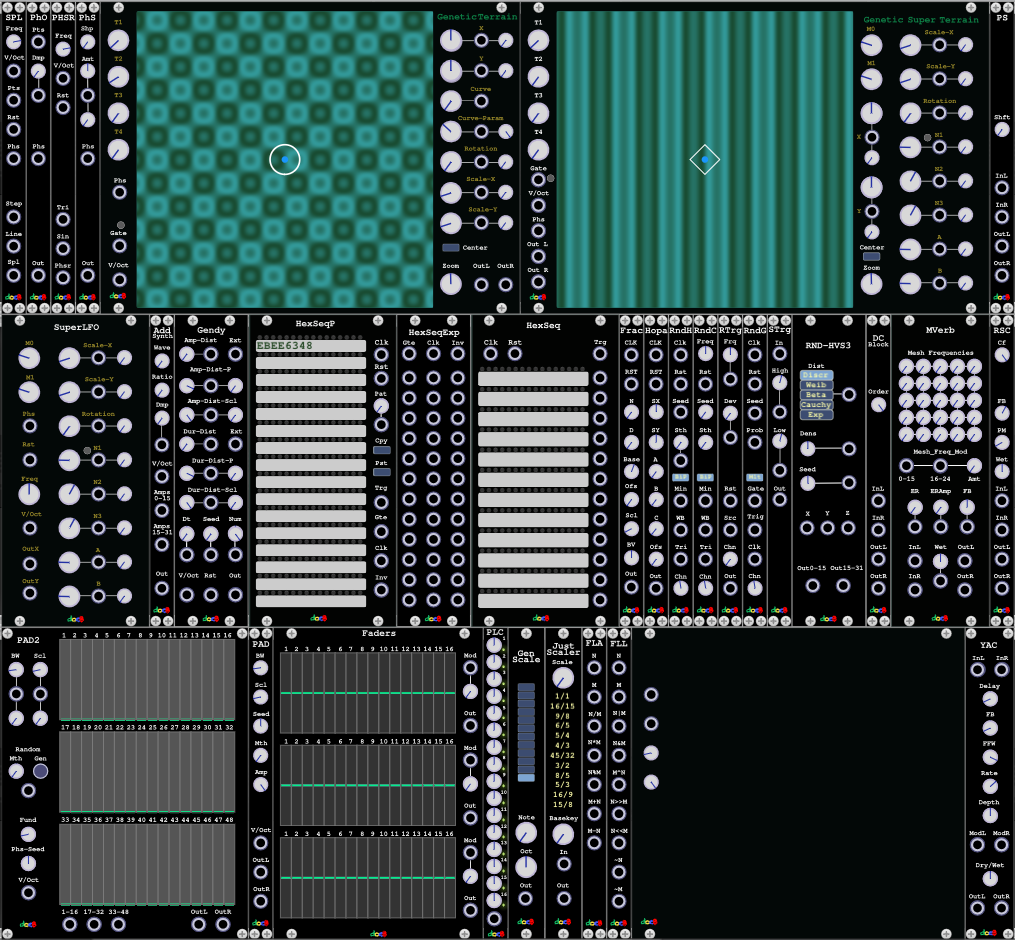
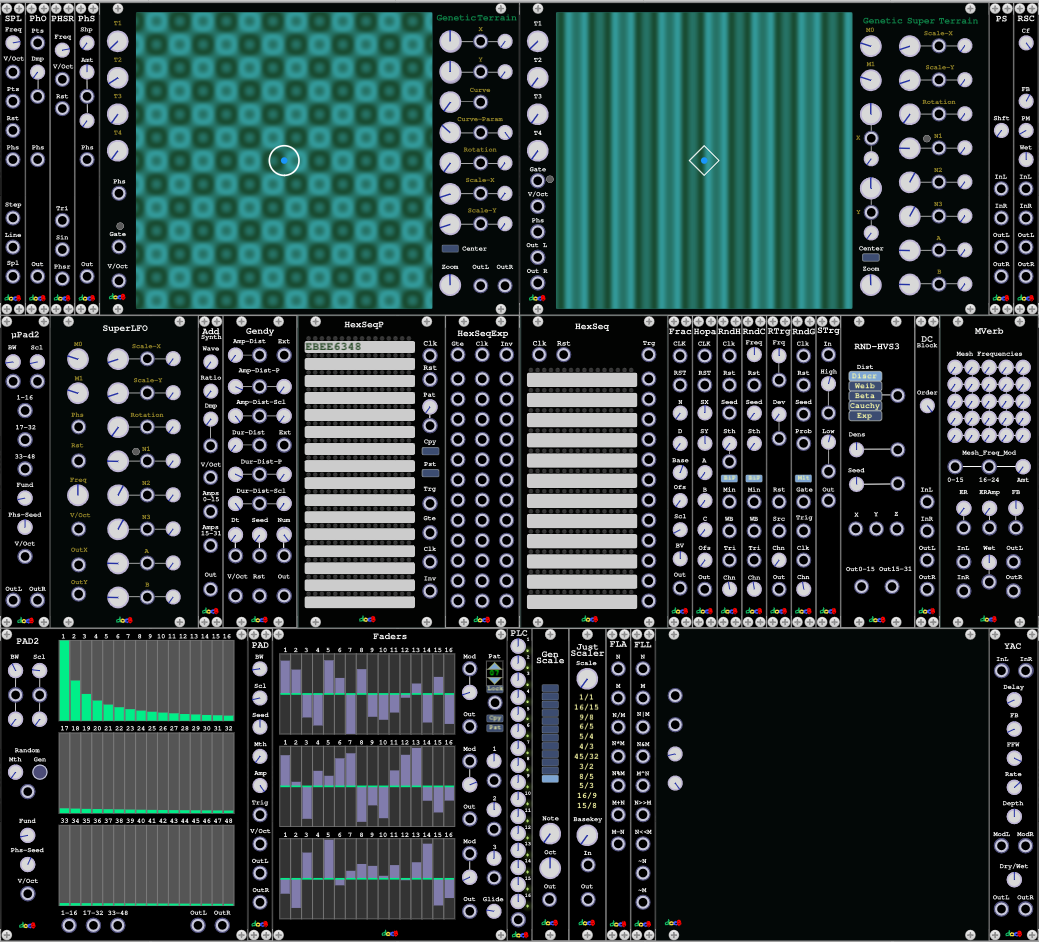
update readme and small fixes

diff --git a/src/Faders.cpp b/src/Faders.cpp
@@ -2,7 +2,7 @@
 #include "rnd.h"
 
 extern Model *modelPad2;
-#define MAX_PATS 16
+#define MAX_PATS 100
 struct SlewLimiter {
   float delta=0;
   float last=0;
@@ -11,10 +11,10 @@ struct SlewLimiter {
   void setParams(float sampleTime,float seconds,float to) {
     if(seconds==0)
       delta=0;
-    else
+    else if(target!=to) {
       delta=(to-last)*sampleTime/seconds;
-    //last=from;
-    target=to;
+      target=to;
+    }
   }
 
   float process() {
@@ -24,7 +24,7 @@ struct SlewLimiter {
     return last=std::min(last+delta,target);
   }
 };
-#define MAX_KNOBS 2
+#define MAX_KNOBS 3
 struct FadersPreset {
   float faderValues[48]={};
   float knobValues[MAX_KNOBS]={};
@@ -134,7 +134,8 @@ struct FadersPreset {
     json_t *knobValueList=json_object_get(data,"knobValues");
     for(int k=0;k<MAX_KNOBS;k++) {
       json_t *jValue=json_array_get(knobValueList,k);
-      knobValues[k]=json_integer_value(jValue);
+      if(jValue)
+        knobValues[k]=json_integer_value(jValue);
     }
     json_t *jKnob1=json_object_get(data,"knob1");
     if(jKnob1) {
@@ -228,16 +229,6 @@ struct Faders : Module {
       getParamQuantity(KNOB_PARAMS+k)->setValue(presets[pat].knobValues[k]);
     }
   }
-
-  void onAdd(const AddEvent &e) override {
-  }
-
-  void onReset(const ResetEvent &e) override {
-    for(int k=0;k<MAX_PATS;k++) {
-      presets[k].reset();
-    }
-  }
-
 
   float getSnapped(float value,int row,int c) {
     int pat=params[PAT_PARAM].getValue();
@@ -404,6 +395,22 @@ struct Faders : Module {
       int id=nr*16+k;
       getParamQuantity(id)->setValue(math::rescale(float(rnd.nextDouble()),0.f,1.f,presets[pat].min[nr],presets[pat].max[nr]));
     }
+  }
+
+  void onRandomize(const RandomizeEvent &e) override {
+    for(int k=0;k<3;k++) {
+      randomizeValues(k);
+      getParamQuantity(KNOB_PARAMS+k)->setValue(math::rescale(float(rnd.nextDouble()),0.f,1.f,-10.f,10.f));
+    }
+  }
+  void onAdd(const AddEvent &e) override {
+  }
+
+  void onReset(const ResetEvent &e) override {
+    for(int k=0;k<MAX_PATS;k++) {
+      presets[k].reset();
+    }
+    setCurrentPattern();
   }
 
 };
@@ -608,11 +615,11 @@ struct FadersWidget : ModuleWidget {
   FadersWidget(Faders *module) {
     setModule(module);
     setPanel(createPanel(asset::plugin(pluginInstance,"res/Faders.svg")));
+    addChild(createWidget<ScrewSilver>(Vec(0, 0)));
+    addChild(createWidget<ScrewSilver>(Vec(box.size.x - 15, 0)));
+    addChild(createWidget<ScrewSilver>(Vec(0, 365)));
+    addChild(createWidget<ScrewSilver>(Vec(box.size.x - 15, 365)));
 
-    addChild(createWidget<ScrewSilver>(Vec(RACK_GRID_WIDTH,0)));
-    addChild(createWidget<ScrewSilver>(Vec(box.size.x-2*RACK_GRID_WIDTH,0)));
-    addChild(createWidget<ScrewSilver>(Vec(RACK_GRID_WIDTH,RACK_GRID_HEIGHT-RACK_GRID_WIDTH)));
-    addChild(createWidget<ScrewSilver>(Vec(box.size.x-2*RACK_GRID_WIDTH,RACK_GRID_HEIGHT-RACK_GRID_WIDTH)));
     for(int i=0;i<3;i++) {
       for(int k=0;k<16;k++) {
         auto faderParam=createParam<Fader>(mm2px(Vec(3+k*4.5,MHEIGHT-(9+38*(2-i))-33)),module,i*16+k);
@@ -654,7 +661,7 @@ struct FadersWidget : ModuleWidget {
       addOutput(createOutput<SmallPort>(mm2px(Vec(x,y)),module,Faders::KNOB_OUTPUTS+k));
       y+=12;
     }
-    addParam(createParam<TrimbotWhite>(mm2px(Vec(x,y)),module,Faders::GLIDE_PARAM));
+    addParam(createParam<TrimbotWhite>(mm2px(Vec(x,113.213f)),module,Faders::GLIDE_PARAM));
 
   }
 

diff --git a/src/Pad2.cpp b/src/Pad2.cpp
@@ -91,9 +91,9 @@ struct Pad2 : Module {
       configParam(PARTIAL_PARAM+k,0,1,0,"Partial "+std::to_string(k+2));
     }
     configParam(BW_PARAM,0.5f,60,10,"Bandwidth");
-    configParam(BW_CV_PARAM,0.0f,3,0,"Bandwidth CV");
+    configParam(BW_CV_PARAM,0.0f,1,0,"Bandwidth CV","%",0,100);
     configParam(SCALE_PARAM,0.5f,4.f,1,"Bandwidth Scale");
-    configParam(SCALE_CV_PARAM,0.0f,2.f,0.f,"Bandwidth Scale CV");
+    configParam(SCALE_CV_PARAM,0.0f,1.f,0.f,"Bandwidth Scale CV","%",0,100);
     configButton(GEN_PARAM,"Generate");
     configParam(PSEED_PARAM,0.f,1.f,0.5,"Phase Seed");
     configParam(FUND_PARAM,4.f,11.f,5.03f,"Frequency"," Hz",2,1);
@@ -158,7 +158,7 @@ struct Pad2 : Module {
     switch(method) {
       case EVEN_MIN:
         for(int k=0;k<48;k++) {
-          if(k%2==0)
+          if(k%2==1)
             getParamQuantity(PARTIAL_PARAM+k)->setValue(rnd.nextMin(k/4));
           else
             getParamQuantity(PARTIAL_PARAM+k)->setValue(0);
@@ -166,7 +166,7 @@ struct Pad2 : Module {
         break;
       case ODD_MIN:
         for(int k=0;k<48;k++) {
-          if(k%2==1)
+          if(k%2==0)
             getParamQuantity(PARTIAL_PARAM+k)->setValue(rnd.nextMin(k/4));
           else
             getParamQuantity(PARTIAL_PARAM+k)->setValue(0);
@@ -179,7 +179,7 @@ struct Pad2 : Module {
         break;
       case EVEN_WB:
         for(int k=0;k<48;k++) {
-          if(k%2==0)
+          if(k%2==1)
             getParamQuantity(PARTIAL_PARAM+k)->setValue(rnd.nextWeibull(k/4.f));
           else
             getParamQuantity(PARTIAL_PARAM+k)->setValue(0);
@@ -187,7 +187,7 @@ struct Pad2 : Module {
         break;
       case ODD_WB:
         for(int k=0;k<48;k++) {
-          if(k%2==1)
+          if(k%2==0)
             getParamQuantity(PARTIAL_PARAM+k)->setValue(rnd.nextWeibull(k/4.f));
           else
             getParamQuantity(PARTIAL_PARAM+k)->setValue(0);
@@ -248,12 +248,12 @@ struct Pad2 : Module {
     }
     float bw=params[BW_PARAM].getValue();
     if(inputs[BW_INPUT].isConnected()) {
-      bw+=inputs[BW_INPUT].getVoltage()*params[BW_CV_PARAM].getValue();
+      bw+=inputs[BW_INPUT].getVoltage()*params[BW_CV_PARAM].getValue()*3;
       bw=clamp(bw,0.5f,60.f);
     }
     float scale=params[SCALE_PARAM].getValue();
     if(inputs[SCALE_INPUT].isConnected()) {
-      scale+=inputs[SCALE_INPUT].getVoltage()*params[SCALE_CV_PARAM].getValue()*0.1f;
+      scale+=inputs[SCALE_INPUT].getVoltage()*params[SCALE_CV_PARAM].getValue()*0.2f;
       scale=clamp(scale,0.5f,4.f);
     }
 

diff --git a/src/Pad.cpp b/src/Pad.cpp
@@ -111,7 +111,7 @@ struct Pad : Module {
   float sr=48000.f;
   float bw=10.f;
   float scl=1.f;
-
+  int counter=-1;
   float fade=0;
 
   void generatePartials() {
@@ -243,7 +243,14 @@ struct Pad : Module {
 
   void process(const ProcessArgs &args) override {
     if(trigger.process(inputs[TRIG_INPUT].getVoltage())) {
+      counter=10;
+    }
+    if(counter>0) {
+      counter--;
+    }
+    if(counter==0) {
       generateThreaded();
+      counter=-1;
     }
     int channels=inputs[VOCT_INPUT].getChannels();
     float mix=0;

diff --git a/README.md b/README.md
@@ -213,14 +213,12 @@ randomly generated (parameter seed) using different methods (parameter Mth).
 New in 2.1.0: 
 - The amp of the first partial can now be controlled with the amp knob - was 1.0 before.
 - Presets will be applied directly without clicking on a knob.
+- External parameter changes (e.g. from µMap) can be applied by sending a trigger signal to the new trig input.  
 - In the menu there can be set a fade time which causes that on every change the sound changes smoothly to the new.
-- There is new method "static" which produces a descending partial sequence. If the seed is 0.5 all partials are part of the sequence.
-  If the seed is zero only odd partials are used and if the seed is one than only even partials are used. 
-  Every seed in between will be interpolated. 
+- There is new method "static" which produces a descending partial sequence. If the seed is 0.5 all partials are part of the sequence (saw like wave).
+  If the seed is zero only odd partials (pulse wave) are used and if the seed is one than only even partials are used. 
+  Every seed in between will be interpolated.
 
-### Gendy
-This is a port of Supercolliders gendy which is based on the work of Peter Hoffmann who has rebuild GENDYN
-from Iannis Xenakis.
 
 ### PAD2
 ![](images/PAD2.png?raw=true)
@@ -244,10 +242,21 @@ Changes to PAD:
   
 Here an example:
 
+Thanks to Paul Piko and Dave Benham for testing and feature requests.
+
+### µPad2
+
+This is a small version of PAD2. It has to be fully controlled by the partial inputs and inputs for BW and Scl.
+
+The [Faders](#Faders) module can be used for controlling  µPad2. The following example shows how to transfer
+a sound from PAD2 to µPad2 using the Fader module. The Fader module has a special function for fetching the values of PAD2
+by placing it on the right side of PAD2, placing the mouse cursor over the Faders module and pressing 'f'.
 
 
-https://user-images.githubusercontent.com/1134412/170457723-229e6355-6025-48f8-ace4-76526636806e.mp4
 
+### Gendy
+This is a port of Supercolliders gendy which is based on the work of Peter Hoffmann who has rebuild GENDYN
+from Iannis Xenakis.
 
 
 ## Effects
@@ -449,11 +458,15 @@ interesting sound it is best to filter out the 10K band a much as possible and p
 
 
 ## Others
-![](images/other.png?raw=true)
+![](images/others.png?raw=true)
 
 ### Faders
-This module does the same as the unless towers module. But it provides some additional features:
-- It has three fader blocks
+![](images/Faders.png?raw=true)
+
+This module is kind of similar to the unless towers module. It provides the following features:
+- It has three fader blocks and three knobs
+- There are 100 voltage addressable slots controlled by the Pat parameter and input
+- There is a glide parameter which causes morphing from one slot to another
 - On click on a fader the value according to the mouse position is immediately set.
 - Adjustable voltage ranges {-10V,10V}, {-5V,5V}, {-3V,3V}, {-2V,2V}, {-1V,1V}, {0V,10V}, {0V,5V},
   {0V,3V}, {0V,2V},{0V,1V} in the menu
